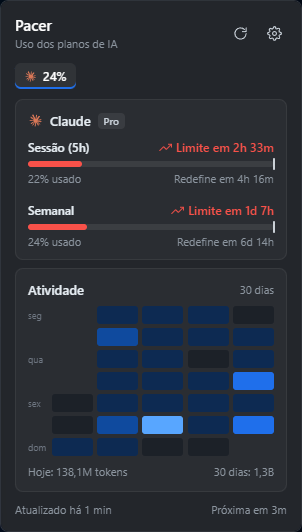
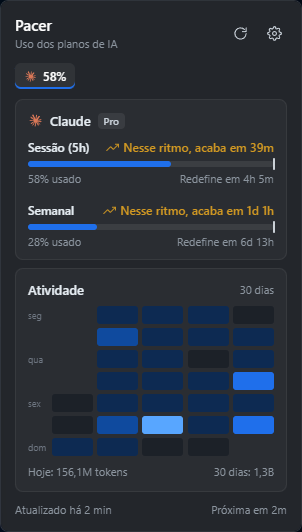
feat: cor das barras e do icone segue so o uso; aviso de previsao mais claro
- azul abaixo de 70%, gradiente laranja->vermelho de 70 a 90%, vermelho a partir de 90%
  (barras e icone da bandeja usam a mesma escala)
- a previsao nao pinta mais a barra de vermelho
- aviso vira 'Nesse ritmo, acaba em X' em laranja (vermelho so com uso >= 90%)
- em 100% mostra 'Limite atingido'
- spec, README e print atualizados

diff --git a/src/components/UsageBar.tsx b/src/components/UsageBar.tsx
@@ -1,13 +1,29 @@
 import { Icon } from "../icons/icons";
 import { formatDuration } from "../lib/format";
-import { severity } from "../lib/severity";
+import { severity, usageColor } from "../lib/severity";
 import type { UsageWindow } from "../lib/types";
 
 export function UsageBar({ w, now }: { w: UsageWindow; now: number }) {
-  const sev = severity(w.usedPct, w.pace);
+  const sev = severity(w.usedPct);
   const resetIn = w.resetsAt ? formatDuration(Date.parse(w.resetsAt) - now) : null;
-  const limitIn = w.pace?.limitAt ? formatDuration(Date.parse(w.pace.limitAt) - now) : null;
   const projected = w.pace?.projectedPct ?? null;
+  // Previsão: só avisa quando o ritmo atual estoura antes da redefinição. A cor da barra
+  // continua sendo do uso; o aviso fica laranja (vermelho só se o uso já passou de 90%).
+  const runsOut = projected !== null && projected > 100 && w.pace?.limitAt ? Date.parse(w.pace.limitAt) - now : null;
+
+  let topRight = null;
+  if (w.usedPct >= 100) {
+    topRight = <span className="warn crit">Limite atingido</span>;
+  } else if (runsOut !== null) {
+    topRight = (
+      <span className={`warn${sev === "critical" ? " crit" : ""}`}>
+        <Icon name="trend" size={13} />
+        Nesse ritmo, acaba em {formatDuration(runsOut)}
+      </span>
+    );
+  } else if (resetIn) {
+    topRight = <span className="muted light">Redefine em {resetIn}</span>;
+  }
 
   let bottomRight = "";
   if (projected !== null) {
@@ -18,17 +34,10 @@ export function UsageBar({ w, now }: { w: UsageWindow; now: number }) {
     <div className="m">
       <div className="mtop">
         <span>{w.label}</span>
-        {sev === "critical" && limitIn ? (
-          <span className="warn">
-            <Icon name="trend" size={13} />
-            Limite em {limitIn}
-          </span>
-        ) : (
-          resetIn && <span className="muted light">Redefine em {resetIn}</span>
-        )}
+        {topRight}
       </div>
       <div className="bar">
-        <div className={`fill sev-${sev}`} style={{ width: `${w.usedPct}%` }} />
+        <div className="fill" style={{ width: `${w.usedPct}%`, backgroundColor: usageColor(w.usedPct) }} />
         {projected !== null && <div className="tick" style={{ left: `${Math.min(projected, 100)}%` }} />}
       </div>
       <div className="mbot">

diff --git a/src/lib/severity.test.ts b/src/lib/severity.test.ts
@@ -1,15 +1,24 @@
 import { describe, expect, it } from "vitest";
-import { severity } from "./severity";
+import { severity, usageColor } from "./severity";
 
 describe("severity", () => {
-  it("segue os mesmos limiares do Rust", () => {
-    expect(severity(74.9, null)).toBe("ok");
-    expect(severity(75, null)).toBe("warn");
-    expect(severity(90, null)).toBe("warn");
-    expect(severity(90.1, null)).toBe("critical");
+  it("segue só o uso, com os mesmos limiares do Rust", () => {
+    expect(severity(0)).toBe("ok");
+    expect(severity(69.9)).toBe("ok");
+    expect(severity(70)).toBe("warn");
+    expect(severity(89.9)).toBe("warn");
+    expect(severity(90)).toBe("critical");
+    expect(severity(100)).toBe("critical");
   });
-  it("projeção acima de 100% é crítica", () => {
-    expect(severity(30, { projectedPct: 101, limitAt: null })).toBe("critical");
-    expect(severity(30, { projectedPct: 100, limitAt: null })).toBe("ok");
+});
+
+describe("usageColor", () => {
+  it("azul até 70%, laranja→vermelho de 70 a 90%, vermelho a partir de 90%", () => {
+    expect(usageColor(0)).toBe("#1f6feb");
+    expect(usageColor(69.9)).toBe("#1f6feb");
+    expect(usageColor(70)).toBe("#d29922");
+    expect(usageColor(80)).toBe("#e57536");
+    expect(usageColor(90)).toBe("#f85149");
+    expect(usageColor(100)).toBe("#f85149");
   });
 });

diff --git a/src/styles.css b/src/styles.css
@@ -71,14 +71,12 @@ svg.i { stroke: currentColor; fill: none; stroke-width: 1.75; stroke-linecap: ro
   transition: width 0.6s cubic-bezier(0.22, 1, 0.36, 1), background-color 0.3s;
   animation: grow 0.9s cubic-bezier(0.22, 1, 0.36, 1) 0.15s both;
 }
-.fill.sev-ok { background: var(--accent); }
-.fill.sev-warn { background: var(--warn); }
-.fill.sev-critical { background: var(--crit); }
 @keyframes grow { from { width: 0; } }
 .tick { position: absolute; top: -3px; width: 2px; height: 12px; margin-left: -1px; background: var(--text); border-radius: 1px; opacity: 0.85; animation: fade 0.3s 1s both; }
 @keyframes fade { from { opacity: 0; } }
 .mbot { display: flex; justify-content: space-between; font-size: 11px; color: var(--muted); }
-.warn { display: flex; align-items: center; gap: 4px; color: var(--crit); font-weight: 600; }
+.warn { display: flex; align-items: center; gap: 4px; color: var(--warn); font-weight: 600; white-space: nowrap; }
+.warn.crit { color: var(--crit); }
 .warnline { display: flex; gap: 6px; align-items: flex-start; color: #f0883e; font-size: 11px; padding: 4px 0 10px; }
 .warnline svg { margin-top: 1px; }
 .note { margin: 6px 0 10px; line-height: 1.45; }

diff --git a/src/lib/severity.ts b/src/lib/severity.ts
@@ -1,8 +1,22 @@
-import type { Pace, Severity } from "./types";
+import type { Severity } from "./types";
 
-/** Mesma regra de src-tauri/src/snapshot.rs. */
-export function severity(usedPct: number, pace: Pace | null): Severity {
-  if (usedPct > 90 || (pace !== null && pace.projectedPct > 100)) return "critical";
-  if (usedPct >= 75) return "warn";
+const BLUE = [0x1f, 0x6f, 0xeb];
+const ORANGE = [0xd2, 0x99, 0x22];
+const RED = [0xf8, 0x51, 0x49];
+
+/** Só o uso decide (a previsão não): mesma regra de src-tauri/src/snapshot.rs. */
+export function severity(usedPct: number): Severity {
+  if (usedPct >= 90) return "critical";
+  if (usedPct >= 70) return "warn";
   return "ok";
+}
+
+const hex = (rgb: number[]) => `#${rgb.map((c) => c.toString(16).padStart(2, "0")).join("")}`;
+
+/** Azul < 70%, laranja→vermelho de 70 a 90%, vermelho ≥ 90% (igual ao ícone da bandeja). */
+export function usageColor(usedPct: number): string {
+  if (usedPct < 70) return hex(BLUE);
+  if (usedPct >= 90) return hex(RED);
+  const t = (usedPct - 70) / 20;
+  return hex(ORANGE.map((a, i) => Math.round(a + (RED[i] - a) * t)));
 }

diff --git a/src-tauri/src/tray.rs b/src-tauri/src/tray.rs
@@ -1,4 +1,4 @@
-use crate::snapshot::{severity, Severity, Snapshot};
+use crate::snapshot::Snapshot;
 use std::f64::consts::TAU;
 use std::sync::Mutex;
 use tauri::image::Image;
@@ -8,22 +8,31 @@ use tauri::{AppHandle, Emitter, Manager};
 
 pub const SIZE: u32 = 32;
 const TRACK: [u8; 3] = [0x6e, 0x76, 0x81];
+const BLUE: [u8; 3] = [0x1f, 0x6f, 0xeb];
+const ORANGE: [u8; 3] = [0xd2, 0x99, 0x22];
+const RED: [u8; 3] = [0xf8, 0x51, 0x49];
 
-fn color(s: Severity) -> [u8; 3] {
-    match s {
-        Severity::Ok => [0x1f, 0x6f, 0xeb],
-        Severity::Warn => [0xd2, 0x99, 0x22],
-        Severity::Critical => [0xf8, 0x51, 0x49],
+/// Mesma escala das barras (src/lib/severity.ts): azul < 70%, laranja→vermelho de 70 a 90%,
+/// vermelho ≥ 90%.
+pub fn usage_color(pct: f64) -> [u8; 3] {
+    if pct < 70.0 {
+        return BLUE;
     }
+    if pct >= 90.0 {
+        return RED;
+    }
+    let t = (pct - 70.0) / 20.0;
+    let mix = |a: u8, b: u8| (f64::from(a) + (f64::from(b) - f64::from(a)) * t).round() as u8;
+    [mix(ORANGE[0], RED[0]), mix(ORANGE[1], RED[1]), mix(ORANGE[2], RED[2])]
 }
 
 /// Anel 32×32: trilho cinza + arco colorido proporcional ao uso, horário a partir do topo.
-pub fn render_icon(pct: f64, sev: Severity) -> Vec<u8> {
+pub fn render_icon(pct: f64) -> Vec<u8> {
     let mut px = vec![0u8; (SIZE * SIZE * 4) as usize];
     let c = (SIZE as f64 - 1.0) / 2.0;
     let (r_out, r_in) = (15.0, 10.0);
     let frac = (pct / 100.0).clamp(0.0, 1.0);
-    let col = color(sev);
+    let col = usage_color(pct);
     for y in 0..SIZE {
         for x in 0..SIZE {
             let (dx, dy) = (x as f64 - c, y as f64 - c);
@@ -64,7 +73,7 @@ pub fn create(app: &AppHandle) -> tauri::Result<()> {
     let menu = Menu::with_items(app, &[&refresh, &settings, &sep, &quit])?;
 
     TrayIconBuilder::with_id("main")
-        .icon(Image::new_owned(render_icon(0.0, Severity::Ok), SIZE, SIZE))
+        .icon(Image::new_owned(render_icon(0.0), SIZE, SIZE))
         .tooltip("Pacer")
         .menu(&menu)
         .show_menu_on_left_click(false)
@@ -86,31 +95,30 @@ pub fn create(app: &AppHandle) -> tauri::Result<()> {
     Ok(())
 }
 
-static LAST: Mutex<Option<(u8, Severity)>> = Mutex::new(None);
+static LAST: Mutex<Option<u8>> = Mutex::new(None);
 
-/// Troca o ícone só quando a % arredondada ou a severidade mudam.
+/// Mostra a maior % entre as janelas; troca o ícone só quando a % arredondada muda.
 pub fn update(app: &AppHandle, snaps: &[Snapshot]) {
-    let (pct, sev) = snaps
+    let pct = snaps
         .iter()
         .flat_map(|s| s.windows.iter())
-        .map(|w| (w.used_pct, severity(w.used_pct, w.pace.as_ref())))
-        .fold((0.0_f64, Severity::Ok), |(p, s), (wp, ws)| (p.max(wp), s.max(ws)));
-    let key = (pct.round() as u8, sev);
+        .map(|w| w.used_pct)
+        .fold(0.0_f64, f64::max);
+    let key = pct.round() as u8;
     let mut last = LAST.lock().unwrap();
     if *last == Some(key) {
         return;
     }
     *last = Some(key);
     if let Some(t) = app.tray_by_id("main") {
-        let _ = t.set_icon(Some(Image::new_owned(render_icon(pct, sev), SIZE, SIZE)));
-        let _ = t.set_tooltip(Some(format!("Pacer · {}%", key.0)));
+        let _ = t.set_icon(Some(Image::new_owned(render_icon(pct), SIZE, SIZE)));
+        let _ = t.set_tooltip(Some(format!("Pacer · {key}%")));
     }
 }
 
 #[cfg(test)]
 mod tests {
     use super::*;
-    use crate::snapshot::Severity;
 
     fn px(buf: &[u8], x: u32, y: u32) -> [u8; 4] {
         let i = ((y * SIZE + x) * 4) as usize;
@@ -118,8 +126,19 @@ mod tests {
     }
 
     #[test]
+    fn usage_color_blue_then_orange_to_red_then_red() {
+        assert_eq!(usage_color(0.0), [0x1f, 0x6f, 0xeb]);
+        assert_eq!(usage_color(69.9), [0x1f, 0x6f, 0xeb]);
+        assert_eq!(usage_color(70.0), [0xd2, 0x99, 0x22]);
+        // no meio do caminho: média entre laranja e vermelho
+        assert_eq!(usage_color(80.0), [229, 117, 54]);
+        assert_eq!(usage_color(90.0), [0xf8, 0x51, 0x49]);
+        assert_eq!(usage_color(100.0), [0xf8, 0x51, 0x49]);
+    }
+
+    #[test]
     fn ring_fills_clockwise_from_top() {
-        let buf = render_icon(50.0, Severity::Ok);
+        let buf = render_icon(50.0);
         assert_eq!(buf.len(), (SIZE * SIZE * 4) as usize);
         assert_eq!(px(&buf, 16, 2), [0x1f, 0x6f, 0xeb, 255]); // topo, logo depois do 0° → preenchido
         assert_eq!(px(&buf, 2, 16), [0x6e, 0x76, 0x81, 255]); // esquerda (~270°) → trilho cinza
@@ -128,13 +147,14 @@ mod tests {
     }
 
     #[test]
-    fn color_follows_severity() {
-        assert_eq!(px(&render_icon(95.0, Severity::Critical), 16, 2), [0xf8, 0x51, 0x49, 255]);
-        assert_eq!(px(&render_icon(80.0, Severity::Warn), 16, 2), [0xd2, 0x99, 0x22, 255]);
+    fn ring_color_follows_usage() {
+        assert_eq!(px(&render_icon(95.0), 16, 2), [0xf8, 0x51, 0x49, 255]);
+        assert_eq!(px(&render_icon(80.0), 16, 2), [229, 117, 54, 255]);
+        assert_eq!(px(&render_icon(30.0), 16, 2), [0x1f, 0x6f, 0xeb, 255]);
     }
 
     #[test]
     fn zero_percent_is_all_track() {
-        assert_eq!(px(&render_icon(0.0, Severity::Ok), 16, 2), [0x6e, 0x76, 0x81, 255]);
+        assert_eq!(px(&render_icon(0.0), 16, 2), [0x6e, 0x76, 0x81, 255]);
     }
 }

diff --git a/src-tauri/src/snapshot.rs b/src-tauri/src/snapshot.rs
@@ -43,12 +43,11 @@ pub enum Severity {
     Critical,
 }
 
-/// Azul < 75%, laranja 75–90%, vermelho > 90% ou projeção > 100%.
-pub fn severity(used_pct: f64, pace: Option<&Pace>) -> Severity {
-    let projected_over = pace.is_some_and(|p| p.projected_pct > 100.0);
-    if used_pct > 90.0 || projected_over {
+/// Só o uso decide a cor (a previsão não): azul < 70%, laranja→vermelho 70–90%, vermelho ≥ 90%.
+pub fn severity(used_pct: f64) -> Severity {
+    if used_pct >= 90.0 {
         Severity::Critical
-    } else if used_pct >= 75.0 {
+    } else if used_pct >= 70.0 {
         Severity::Warn
     } else {
         Severity::Ok
@@ -77,7 +76,7 @@ impl Snapshot {
     pub fn max_severity(&self) -> Severity {
         self.windows
             .iter()
-            .map(|w| severity(w.used_pct, w.pace.as_ref()))
+            .map(|w| severity(w.used_pct))
             .max()
             .unwrap_or(Severity::Ok)
     }
@@ -93,17 +92,32 @@ mod tests {
     }
 
     #[test]
-    fn severity_thresholds() {
-        assert_eq!(severity(74.9, None), Severity::Ok);
-        assert_eq!(severity(75.0, None), Severity::Warn);
-        assert_eq!(severity(90.0, None), Severity::Warn);
-        assert_eq!(severity(90.1, None), Severity::Critical);
+    fn severity_follows_usage_only() {
+        // azul até 70%, laranja→vermelho de 70 a 90%, vermelho a partir de 90%
+        assert_eq!(severity(0.0), Severity::Ok);
+        assert_eq!(severity(69.9), Severity::Ok);
+        assert_eq!(severity(70.0), Severity::Warn);
+        assert_eq!(severity(89.9), Severity::Warn);
+        assert_eq!(severity(90.0), Severity::Critical);
+        assert_eq!(severity(100.0), Severity::Critical);
     }
 
     #[test]
-    fn projection_over_100_is_critical_even_with_low_usage() {
-        assert_eq!(severity(30.0, Some(&pace(101.0))), Severity::Critical);
-        assert_eq!(severity(30.0, Some(&pace(100.0))), Severity::Ok);
+    fn high_projection_with_low_usage_is_not_alarming() {
+        // a previsão estourando não pinta a barra de vermelho: 22% usado continua azul
+        let w = UsageWindow {
+            id: "five_hour".into(),
+            label: "Sessão (5h)".into(),
+            used_pct: 22.0,
+            resets_at: None,
+            pace: Some(pace(180.0)),
+        };
+        let s = Snapshot {
+            provider: "claude".into(), name: "Claude".into(), plan: None,
+            windows: vec![w], activity: vec![], today_tokens: 0,
+            fetched_at: None, next_refresh_at: None, stale: false, notice: None,
+        };
+        assert_eq!(s.max_severity(), Severity::Ok);
     }
 
     #[test]

diff --git a/docs/superpowers/specs/2026-10-03-pacer-design.md b/docs/superpowers/specs/2026-10-03-pacer-design.md
@@ -142,8 +142,9 @@ fonte Segoe UI Variable, sem emojis, sem brilhos/degradês decorativos.
 2. Abas de provedor com a maior % (só Claude na etapa A).
 3. Card do provedor: logo, nome, selo do plano; uma barra por janela
    com "% usado", "Redefine em …" e marca branca da projeção.
-   Cores: azul < 75%, laranja 75–90%, vermelho > 90% ou projeção > 100%
-   (aí aparece "Limite em 1d 7h" com ícone de tendência).
+   Cores (só o **uso** decide; revisto em 2026-10-03): azul < 70%, gradiente laranja→vermelho
+   de 70 a 90%, vermelho ≥ 90% — igual no ícone da bandeja. Se a projeção passar de 100%, aparece
+   "Nesse ritmo, acaba em 1d 7h" em laranja (vermelho só com uso ≥ 90%); em 100%, "Limite atingido".
 4. Card "Atividade · 30 dias": grade estilo GitHub (colunas = semanas,
    linhas = dias seg→dom), 5 níveis de azul, tooltip
    "12 set · 4,2M tokens · 87 msgs"; "Hoje: X" e "30 dias: Y".

diff --git a/README.en.md b/README.en.md
@@ -14,8 +14,8 @@ A Windows widget that shows how much of your AI plan you've already used — and
 - Claude's **5-hour session and weekly** usage, with the real percentage from
   Anthropic
 - **Pace projection**: the white mark on each bar shows where you'll be when
-  the window resets; if you're going to run out, it says "Limite em 1d 7h"
-  ("limit in 1d 7h")
+  the window resets; if you're going to run out, it says "Nesse ritmo, acaba em 1d 7h"
+  ("at this pace, runs out in 1d 7h")
 - **Last 30 days of activity** in a GitHub-style grid, built from Claude Code's
   local logs
 - Windows **notifications** when you cross each threshold (80% and 95% by

diff --git a/README.md b/README.md
@@ -11,7 +11,7 @@ Widget para Windows que mostra quanto do seu plano de IA você já usou — e
 
 - **Sessão (5h) e semanal** do Claude, com a % real vinda da Anthropic
 - **Previsão do ritmo**: a marca branca na barra mostra onde você vai estar
-  na redefinição; se for estourar, aparece "Limite em 1d 7h"
+  na redefinição; se for estourar, aparece "Nesse ritmo, acaba em 1d 7h"
 - **Atividade dos últimos 30 dias** em grade estilo GitHub, a partir dos logs
   locais do Claude Code
 - **Alertas** do Windows ao passar de cada limiar (padrão 80% e 95%) e quando
